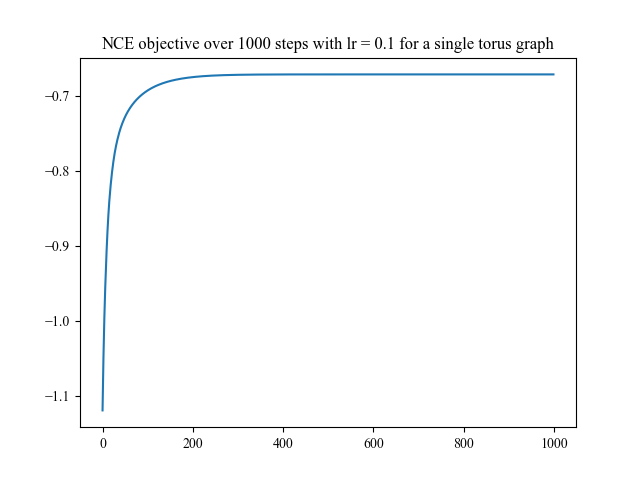
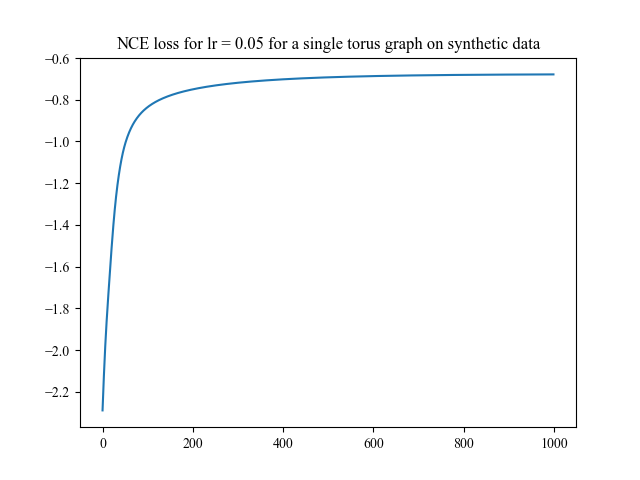
init

diff --git a/src/results/sm_vs_nce_viz.py b/src/results/sm_vs_nce_viz.py
@@ -11,7 +11,7 @@ sys.path.insert(0, '.')
 # from src.parameterEstimation.NCE import NCE
 # from src.data.synthetic_data import sampleFromTorusGraph
 # from src.parameterEstimation.scoreMatching import SM
-from src.toolbox import TorusGraph, sample_syndata_torusgraph, NCE
+from src.toolbox import TorusGraph, sample_syndata_torusgraph, NCE, SM
 
   
 def plot_nce_vs_sm(X,nodes, K, datamodel, N):
@@ -21,13 +21,19 @@ def plot_nce_vs_sm(X,nodes, K, datamodel, N):
       samples = N,
       nModels = K,
       TGInformation = datamodel,
-      return_datamodel=True
+      return_datamodel=True,
+      estimationMethod=SM(
+         X = X,
+         dm = datamodel
+      )
    )
    phi = sm_tg.estimationMethod.phi
 
    nce = NCE(
       nodes = nodes,
-      K = K
+      K = K,
+      lr = 1,
+      steps = 500
    )
    # nce_tg = TorusGraph(
    #    nodes = nodes,
@@ -48,18 +54,18 @@ def plot_nce_vs_sm(X,nodes, K, datamodel, N):
    plt.subplot(1,2,1)
    plt.imshow(theta[0,:,:], vmin=min_val, vmax=max_val)
    plt.colorbar()
-   plt.title("Theta, NCE")
+   plt.title("Phi, NCE")
    plt.xlabel("Dimension")
    plt.ylabel("Model")
 
    plt.subplot(1,2,2)
    plt.imshow(phi.reshape(2,3), vmin=min_val, vmax=max_val)
    plt.colorbar()
-   plt.title("Theta, score matching")
+   plt.title("Phi, score matching")
    plt.xlabel("Dimension")
    plt.ylabel("Model")
 
-   plt.suptitle("Theta, NCE vs SM with 1 model")
+   plt.suptitle("Phi, NCE vs SM with 1 model")
    logging.info("Saving the plot at: src/plots/plot_sm_vs_nce.png")
    plt.savefig('src/plots/plot_sm_vs_nce.png')
    plt.show()

diff --git a/src/results/see_nce_loss.py b/src/results/see_nce_loss.py
@@ -9,13 +9,11 @@ if __name__ == "__main__":
     N = 1000 # samples
     nodes = 3
     K = 1 # single model
-    nce_steps = 2000
-    lr = 0.1
+    lr = 0.05
 
     nce = NCE(
         nodes = nodes,
         K = K,
-        steps = nce_steps,
         lr = lr,
         return_log_prop_data = True
     )
@@ -29,7 +27,7 @@ if __name__ == "__main__":
 
     plt.rcParams['font.family'] = 'Times New Roman'
     plt.plot(nce.losses)
-    plt.title(f"NCE objective over {nce_steps} steps with lr = {lr} for a single torus graph")
+    plt.title(f"NCE loss for lr = {lr} for a single torus graph on synthetic data")
     plt.savefig('src/plots/nce_loss_tg.png')
     plt.show()
 

diff --git a/src/parameterEstimation/NCE.py b/src/parameterEstimation/NCE.py
@@ -7,7 +7,7 @@ import os
 import numpy as np
 
 class NCE(nn.Module):
-    def __init__(self, nodes:int, K:int, return_log_prop_data: bool = False, steps: int = 2000, lr: float = 0.5):
+    def __init__(self, nodes:int, K:int, return_log_prop_data: bool = False, steps: int = 1000, lr: float = 0.05):
         '''
         nodes: number of nodes
         K: number of models (or components) 

diff --git a/src/results/real_nce_loss_tgmm.py b/src/results/real_nce_loss_tgmm.py
@@ -17,7 +17,7 @@ if __name__ == "__main__":
     K = 3 # single model
     cv_runs = 2
     nce_steps = 2000
-    lr = 0.1
+    lr = 0.05
 
     data, true_vals = load_sample_data()
     data = torch.from_numpy(data).float()

diff --git a/README.md b/README.md
@@ -72,7 +72,7 @@ Visualize phi for a single Torus Graph using TGMM NCE
 make real_tgmm_viz
 ```
 
-Estimate NCE loss over the amount of fitting torus graphs **MISSING**
+Estimate NCE loss over the amount of fitting torus graphs
 ```
 make real_nce_loss_tgmm
 ```
